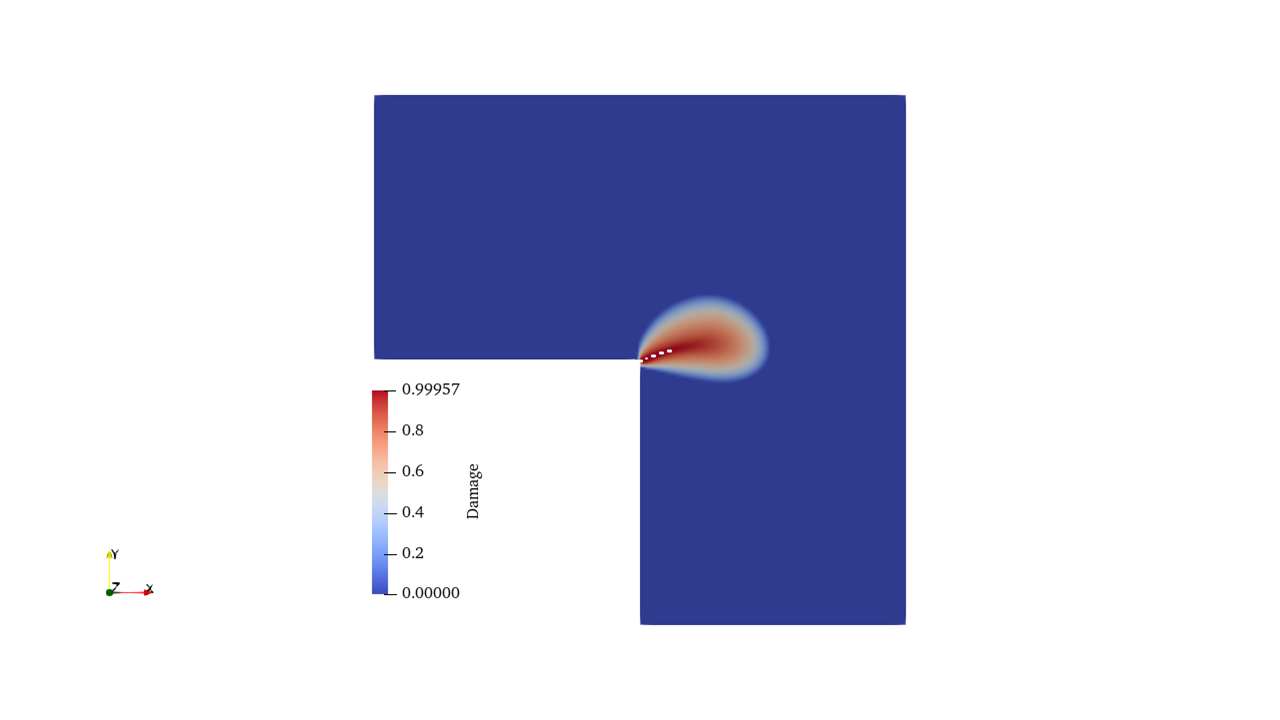
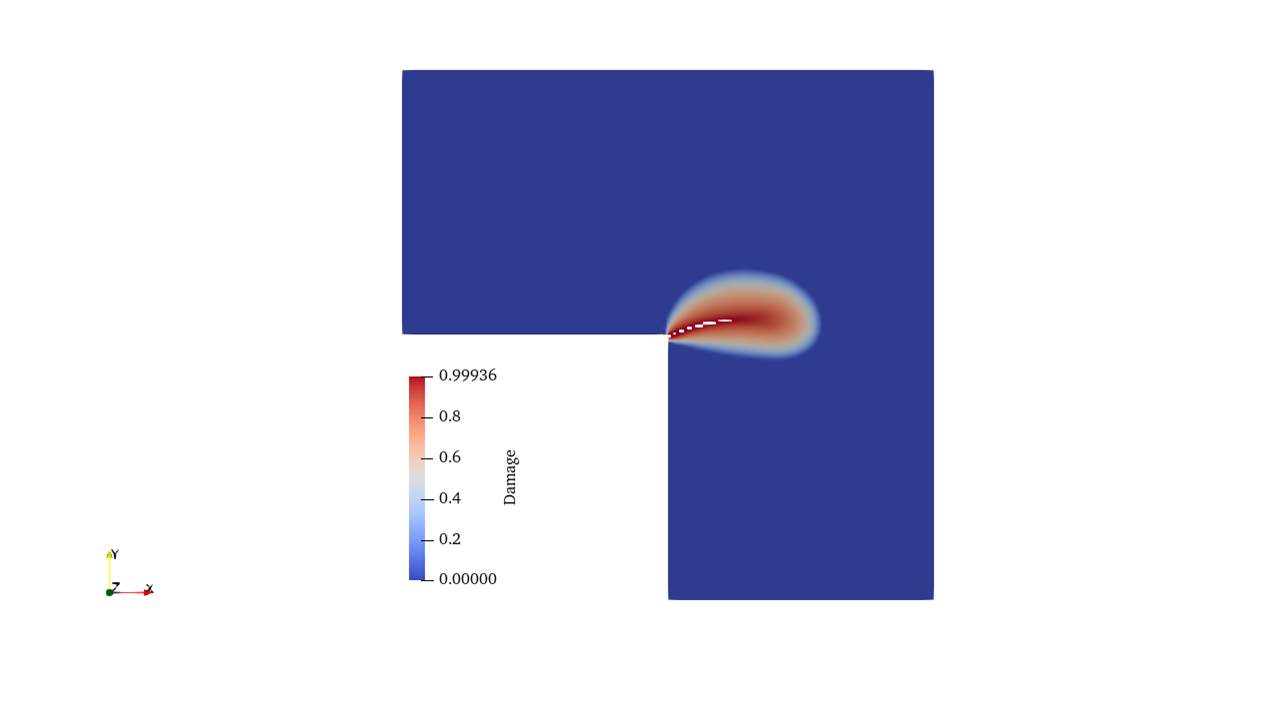
更新研究点三标题与研究点四图片标注

Changed region(s): [[0.2812, 0.0917, 0.75, 0.8861]]

diff --git a/index.html b/index.html
@@ -488,7 +488,7 @@
               </div>
             </div>
             <div class="point-left">
-              <h4>研究点三：基准算例验证与断裂模拟应用</h4>
+              <h4>研究点三：基准算例验证</h4>
               <p>通过 4 类经典弹性力学基准算例全面验证 IELSM 的计算性能：①单轴拉伸（含 4 种随机角度网格旋转验证各向同性）与纯剪切；②简支梁弯曲（与 FEM-Q4、FEM-CST 结构化/非结构化、线性/高阶 DLSM 共 6 方案对比）；③无限大板圆孔应力集中（全场 σ<sub>xx</sub>/σ<sub>yy</sub>/τ<sub>xy</sub> 与解析解对比、不同泊松比位移场验证）。</p>
               <div class="point-conclusion">
                 <span class="conc-label">关键代表性优势</span>
@@ -519,7 +519,7 @@
             </div>
             <div class="point-thumbs">
               <div class="thumb-item"><img src="L形板.png" alt="L形板裂纹路径" loading="lazy"><p class="fig-caption">L 形板裂纹扩展路径</p></div>
-              <div class="thumb-item"><img src="梁三点弯曲.png" alt="梁三点弯曲荷载-位移曲线" loading="lazy"><p class="fig-caption">三点弯曲梁荷载-位移曲线</p></div>
+              <div class="thumb-item"><img src="梁三点弯曲.png" alt="三点弯曲梁损伤云图" loading="lazy"><p class="fig-caption">三点弯曲梁损伤云图</p></div>
             </div>
           </div>
         </div>
